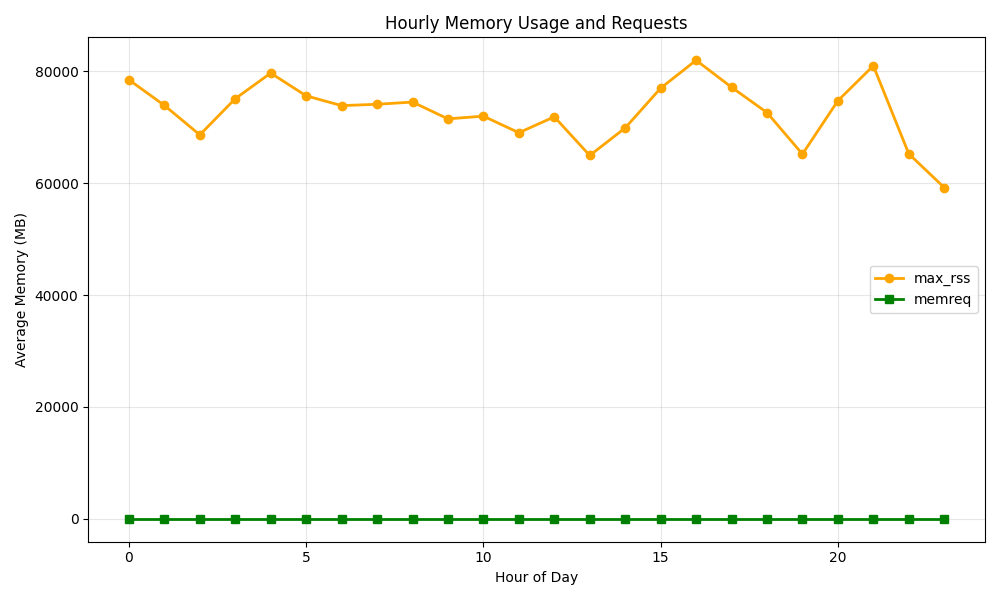
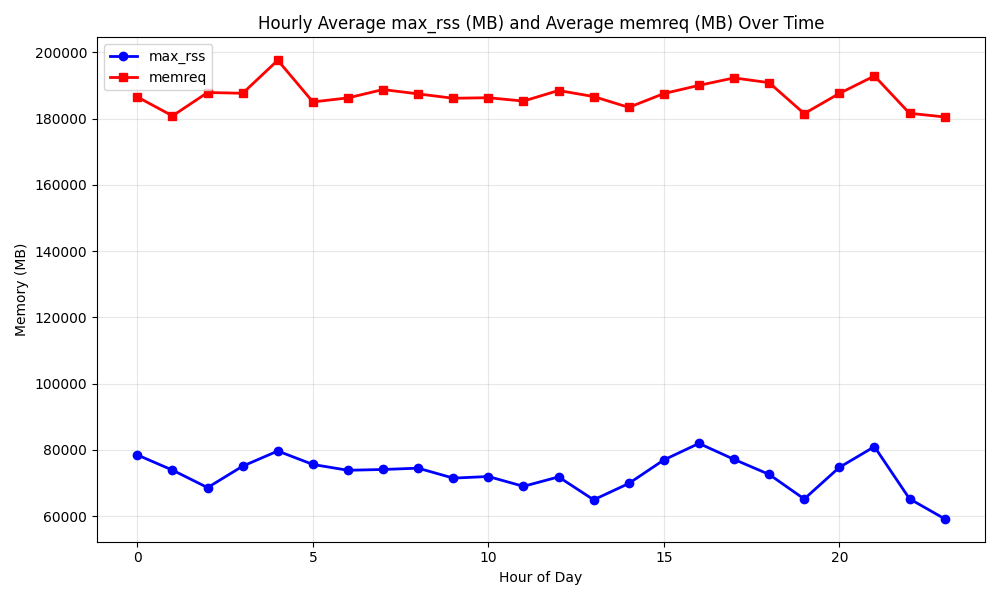
Refactor memory conversion logic and update visualization methods for clarity

diff --git a/eda/eda.py b/eda/eda.py
@@ -14,7 +14,7 @@ print(f"Dataset shape: {df.shape}")
 # Convert memory values to MB for better readability
 df["max_rss_mb"] = df["max_rss"] / (1024**2)
 df["max_cache_mb"] = df["max_cache"] / (1024**2)
-df["memreq_mb"] = df["memreq"] / (1024**2)
+df["memreq_mb"] = df["memreq"]
 
 print("\n=== TARGET VARIABLE ANALYSIS (max_rss in MB) ===")
 print(f"Min: {df['max_rss_mb'].min():.2f} MB")
@@ -600,90 +600,42 @@ plt.plot(
     color="red",
 )
 plt.xlabel("Days")
-plt.ylabel("Average Memory (MB)")
-plt.title("Daily Average Memory Usage and Requests Over Time")
+plt.ylabel("Memory (MB)")
+plt.title("Daily Average max_rss (MB) and Average memreq (MB) Over Time")
 plt.legend()
 plt.grid(True, alpha=0.3)
 plt.tight_layout()
 plt.savefig("/home/krebs/Distributed_Systems_Project/eda/plots/15_daily_max_rss.png")
 plt.close()
 
-# # Hourly memory usage pattern
-# plt.figure(figsize=(10, 6))
-# hourly_memory = df.groupby("hour")["max_rss_mb"].mean()
-# hourly_memreq = df.groupby("hour")["memreq_mb"].mean()
-# plt.plot(
-#     hourly_memory.index,
-#     hourly_memory.values,
-#     marker="o",
-#     linewidth=2,
-#     color="orange",
-#     label="max_rss",
-# )
-# plt.plot(
-#     hourly_memreq.index,
-#     hourly_memreq.values,
-#     marker="s",
-#     linewidth=2,
-#     color="green",
-#     label="memreq",
-# )
-# plt.xlabel("Hour of Day")
-# plt.ylabel("Average Memory (MB)")
-# plt.title("Hourly Memory Usage and Requests")
-# plt.legend()
-# plt.grid(True, alpha=0.3)
-# plt.tight_layout()
-# plt.savefig("/home/krebs/Distributed_Systems_Project/eda/plots/16_hourly_max_rss.png")
-# plt.close()
-
-# Memory failures vs max_rss
+# Hourly memory usage pattern
 plt.figure(figsize=(10, 6))
-failed_builds = df[df["memory_fail_count"] > 0]
-successful_builds = df[df["memory_fail_count"] == 0]
-plt.hist(
-    [successful_builds["max_rss_mb"], failed_builds["max_rss_mb"]],
-    bins=30,
-    alpha=0.7,
-    label=["No Failures", "With Failures"],
-    color=["green", "red"],
+hourly_memory = df.groupby("hour")["max_rss_mb"].mean()
+hourly_memreq = df.groupby("hour")["memreq_mb"].mean()
+plt.plot(
+    hourly_memory.index,
+    hourly_memory.values,
+    marker="o",
+    linewidth=2,
+    label="max_rss",
+    color="blue",
 )
-plt.xlabel("max_rss (MB)")
-plt.ylabel("Frequency")
-plt.title("max_rss: Failed vs Successful Builds")
+plt.plot(
+    hourly_memreq.index,
+    hourly_memreq.values,
+    marker="s",
+    linewidth=2,
+    label="memreq",
+    color="red",
+)
+plt.xlabel("Hour of Day")
+plt.ylabel("Memory (MB)")
+plt.title("Hourly Average max_rss (MB) and Average memreq (MB) Over Time")
 plt.legend()
-plt.yscale("log")
+plt.grid(True, alpha=0.3)
 plt.tight_layout()
-plt.savefig("/home/krebs/Distributed_Systems_Project/eda/plots/17_memory_failures.png")
+plt.savefig("/home/krebs/Distributed_Systems_Project/eda/plots/16_hourly_max_rss.png")
 plt.close()
-
-
-# Memory cache vs max_rss
-plt.figure(figsize=(10, 6))
-plt.scatter(df["max_cache_mb"], df["max_rss_mb"], alpha=0.5, s=10)
-plt.xlabel("max_cache (MB)")
-plt.ylabel("max_rss (MB)")
-plt.title("max_cache vs max_rss")
-plt.xscale("log")
-plt.yscale("log")
-plt.tight_layout()
-plt.savefig(
-    "/home/krebs/Distributed_Systems_Project/eda/plots/18_max_cache_vs_max_rss.png"
-)
-plt.close()
-
-df["memory_overuse"] = df["max_rss_mb"] / df["memreq_mb"]
-print(f"\nAverage memory overuse ratio: {df['memory_overuse'].mean():.3f}")
-print(f"Median memory overuse ratio: {df['memory_overuse'].median():.3f}")
-print("Memory overuse distribution:")
-print(f"  < 0.5x requested: {(df['memory_overuse'] < 0.5).mean() * 100:.1f}%")
-print(
-    f"  0.5x - 1.0x:      {((df['memory_overuse'] >= 0.5) & (df['memory_overuse'] <= 1.0)).mean() * 100:.1f}%"
-)
-print(
-    f"  1.0x - 2.0x:      {((df['memory_overuse'] > 1.0) & (df['memory_overuse'] <= 2.0)).mean() * 100:.1f}%"
-)
-print(f"  > 2.0x requested: {(df['memory_overuse'] > 2.0).mean() * 100:.1f}%")
 
 hourly_memory = df.groupby("hour")["max_rss_mb"].mean()
 daily_memory = df.groupby("day_of_week")["max_rss_mb"].mean()
@@ -699,19 +651,90 @@ for day_num in range(7):
         print(f"  {days[day_num]:9s}: {daily_memory[day_num]:6.1f} MB")
 
 
+# Memory failures vs max_rss
+plt.figure(figsize=(10, 6))
+memory_fail_builds = df[df["memory_fail_count"] > 0]
+successful_builds = df[df["memory_fail_count"] == 0]
+plt.hist(
+    [successful_builds["max_rss_mb"], memory_fail_builds["max_rss_mb"]],
+    bins=30,
+    alpha=0.7,
+    label=["No Failures", "With Failures"],
+    color=["green", "red"],
+)
+plt.xlabel("max_rss (MB)")
+plt.ylabel("Frequency")
+plt.title("max_rss: Failed vs Successful Builds")
+plt.legend()
+plt.yscale("log")
+plt.tight_layout()
+plt.savefig("/home/krebs/Distributed_Systems_Project/eda/plots/17_memory_failures.png")
+plt.close()
+
+# Memory cache vs max_rss
+plt.figure(figsize=(10, 6))
+plt.scatter(df["max_cache_mb"], df["max_rss_mb"], alpha=0.5, s=10)
+plt.xlabel("max_cache (MB)")
+plt.ylabel("max_rss (MB)")
+plt.title("max_cache vs max_rss")
+plt.xscale("log")
+plt.yscale("log")
+plt.tight_layout()
+plt.savefig(
+    "/home/krebs/Distributed_Systems_Project/eda/plots/18_max_cache_vs_max_rss.png"
+)
+plt.close()
+
+# Calculate memory overallocation
+df["memory_overallocation"] = df["memreq_mb"] / df["max_rss_mb"]
+print(
+    f"\nAverage memory overallocation ratio: {df['memory_overallocation'].mean():.3f}"
+)
+print(f"Median memory overallocation ratio: {df['memory_overallocation'].median():.3f}")
+print("Memory overallocation distribution:")
+
+memory_overallocation_0_5 = ((df["memory_overallocation"] < 0.5).mean()) * 100
+memory_overallocation_0_5_1_0 = (
+    (df["memory_overallocation"] >= 0.5) & (df["memory_overallocation"] <= 1.0)
+).mean() * 100
+memory_overallocation_1_0_2_0 = (
+    (df["memory_overallocation"] > 1.0) & (df["memory_overallocation"] <= 2.0)
+).mean() * 100
+memory_overallocation_2_0 = (df["memory_overallocation"] > 2.0).mean() * 100
+
+print(f"< 0.5x:             {memory_overallocation_0_5:.1f}%")  # underallocated
+print(f"0.5x - 1.0x:        {memory_overallocation_0_5_1_0:.1f}%")  # underallocated
+print(f"1.0x - 2.0x:        {memory_overallocation_1_0_2_0:.1f}%")  # overallocated
+print(f"> 2.0x requested:   {memory_overallocation_2_0:.1f}%")  # overallocated
+
+
+memory_fail_builds = df[df["memory_fail_count"] > 0]
+print(f"Number of builds with memory fail: {len(memory_fail_builds)}")
+if len(memory_fail_builds) > 0:
+    print("Memory overallocation ratios for fail builds:")
+    for idx, row in memory_fail_builds.iterrows():
+        print(
+            f"Build {idx}: memory_overallocation = {row['memory_overallocation']:.3f}, "
+            f"memory_fail_count = {row['memory_fail_count']}, "
+            f"max_rss_mb = {row['max_rss_mb']:.2f}, "
+            f"memreq_mb = {row['memreq_mb']:.2f}"
+        )
+else:
+    print("No builds with memory failures found.")
+
 # Memory overuse distribution
 plt.figure(figsize=(10, 6))
 plt.hist(
-    df["memory_overuse"],
-    bins=50,
+    df["memory_overallocation"],
+    bins=5,
     alpha=0.7,
     color="lightcoral",
     edgecolor="black",
 )
-plt.axvline(x=4, color="red", linestyle="--", linewidth=2, label="Perfect Allocation")
-plt.xlabel("Memory Overuse Ratio")
+plt.axvline(x=1, color="red", linestyle="--", linewidth=2, label="Perfect Allocation")
+plt.xlabel("max_rss (MB) vs memreq (MB) Ratio")
 plt.ylabel("Frequency")
-plt.title("Memory Overuse Distribution")
+plt.title("Memory Ratio Distribution")
 plt.legend()
 plt.grid(True, alpha=0.3)
 plt.tight_layout()
@@ -726,7 +749,7 @@ plt.scatter(
     df["max_rss_mb"],
     alpha=0.5,
     s=20,
-    c=df["memory_overuse"],
+    c=df["memory_overallocation"],
     cmap="RdYlBu_r",
     vmin=0,
     vmax=3,

diff --git a/visualization.py b/visualization.py
@@ -60,58 +60,3 @@ class Visualizer:
 
         plt.tight_layout()
         plt.savefig(f"{output_dir}/{model_name}_predictions_vs_actual.png")
-
-    def plot_predictions_over_time(self, model_name, output_dir):
-        """Plot model predictions over time against actual values"""
-        if model_name.lower() == "random forest":
-            results = self.results.get("random_forest")
-        elif model_name.lower() == "xgboost":
-            results = self.results.get("xgboost")
-        else:
-            print(f"Model {model_name} not found in results")
-            return
-
-        if not results:
-            print(f"No results found for {model_name}")
-            return
-
-        y_test = self.results["test_data"]["y_test"]
-        predictions = results["predictions"]
-
-        plt.figure(figsize=(14, 8))
-
-        # Plot actual values
-        plt.plot(
-            range(len(y_test)), y_test, "b-", alpha=0.7, label="Actual", linewidth=1.5
-        )
-
-        # Plot predictions
-        plt.plot(
-            range(len(predictions)),
-            predictions,
-            "r--",
-            alpha=0.8,
-            label="Predicted",
-            linewidth=1.5,
-        )
-
-        plt.xlabel("Time Index")
-        plt.ylabel("Memory Usage (MB)")
-        plt.title(f"{model_name} - Predictions vs Actual Over Time")
-        plt.legend()
-        plt.grid(True, alpha=0.3)
-
-        # Add R² score
-        r2 = results["r2"]
-        plt.text(
-            0.02,
-            0.98,
-            f"R² = {r2:.4f}",
-            transform=plt.gca().transAxes,
-            bbox=dict(boxstyle="round", facecolor="white", alpha=0.8),
-            verticalalignment="top",
-        )
-
-        plt.tight_layout()
-        plt.savefig(f"{output_dir}/{model_name}_predictions_over_time.png")
-        plt.close()

diff --git a/data_preprocessing.py b/data_preprocessing.py
@@ -27,7 +27,7 @@ class DataPreprocessor:
         df["max_rss_mb"] = df["max_rss"] / (1024 * 1024)
         df["max_cache_mb"] = df["max_cache"] / (1024 * 1024)
         # Add memreq_mb conversion
-        df["memreq_mb"] = df["memreq"] / (1024 * 1024)
+        df["memreq_mb"] = df["memreq"]
         return df
 
     def filter_successful_builds(self, df: pd.DataFrame):
